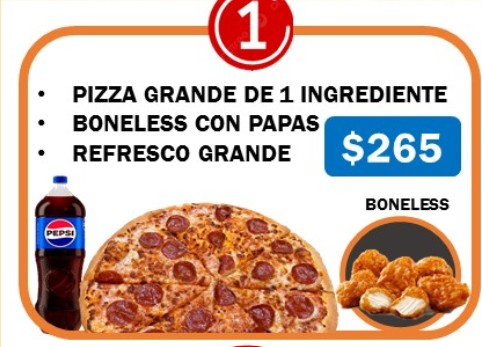
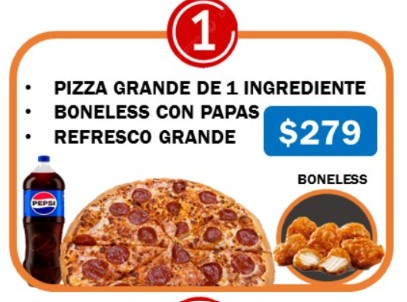
Add files via upload

diff --git a/script.js b/script.js
@@ -1,7 +1,7 @@
 // Datos de Pizzas, Paquetes y Complementos
 
 // Versión de las imágenes - Cambia este número cuando subas nuevas imágenes para forzar la recarga
-const IMAGE_VERSION = "v2.1";
+const IMAGE_VERSION = "v2.2";
 
 // Función para agregar versión a las URLs de imágenes y evitar caché
 function getImageUrl(imgPath) {
@@ -28,7 +28,14 @@ const ingredientes = [
 ];
 
 const ingredientesExtra = {};
-  
+
+// Especialidades: si en "Crea tu pizza" eliges exactamente estos ingredientes, se aplica el precio fijo
+const especialidadesPizza = [
+    { name: 'Hawaiana', ingredientes: ['Jamón', 'Piña'].sort(), price: 159 },
+    { name: '3 Carnes', ingredientes: ['Jamón', 'Pepperoni', 'Salchicha Italiana'].sort(), price: 179 },
+    { name: 'Ala mexicana', ingredientes: ['Cebolla', 'Chorizo', 'Pimiento Morron'].sort(), price: 179 },
+    { name: 'Suprema', ingredientes: ['Cebolla', 'Champiñones', 'Jamón', 'Pepperoni', 'Pimiento Morron', 'Salchicha Italiana'].sort(), price: 199 }
+];
 
 const opcionesAdicionales = {
     orillaRellena: false, // Orilla rellena de queso
@@ -51,7 +58,7 @@ const pizzas = [
 
     { id: "pizza-peperoniExtra", type: "pizza", id: "mitamita", name: "1/2 Peperoni 1/2 Queso ", img: "imgs/pizzamitamita.jpeg", price: 119 },
 
-    { id: "pizza-suprema", type: "pizza", id: "suprema", name: "Pizza Suprema", img: "imgs/suprema.jpg", price: 189 },
+    { id: "pizza-suprema", type: "pizza", id: "suprema", name: "Pizza Suprema", img: "imgs/suprema.jpg", price: 199 },
     
     { id: "pizza-hawaiana", type: "pizza", id: "hawaiana", name: "Pizza Hawaiana", img: "imgs/hawaiana.jpg", price: 159 },
     
@@ -63,7 +70,7 @@ const pizzas = [
     
     { id: "pizza-boneless", type: "pizza", id: "pizzaBoneless", name: "Pizza de Boneless con Aderezo", img: "imgs/pizzaBoneless.jpg", price: 189 },
     
-    { id: "pizza-mexicana", type: "pizza", id: "mexicana", name: "Pizza A la Mexicana", img: "imgs/mexicana.jpg", price: 189 },
+    { id: "pizza-mexicana", type: "pizza", id: "mexicana", name: "Pizza A la Mexicana", img: "imgs/mexicana.jpg", price: 179 },
     
     { id: "pizza-cheetos", type: "pizza", id: "cheetos", name: "Pizza de Cheetos Flamin Hot", img: "imgs/cheetos.jpg", price: 179 },
     
@@ -76,7 +83,7 @@ const paquetes = [
         name: "Paquete 1",
         id: "paquete-1", 
         img: "imgs/Paquete1.jpg", 
-        price: 265, 
+        price: 279, 
         products: [
             { type: "pizza", name: "Pizza de Peperoni", options: { ingredients: ingredientes } },
             { type: "bonealitas", name: "Boneless", options: { sauces: ["BBQ", "Buffalo", "Mango Habanero", "Parmesano", "Lemon Pepper"], type: ["Bañados", "Naturales"] } },
@@ -88,7 +95,7 @@ const paquetes = [
         name: "Paquete 2",
         id: "paquete-2", 
         img: "imgs/Paquete2.jpg", 
-        price: 195, 
+        price: 199, 
         products: [
             { type: "pizza", name: "Pizza de Peperoni", options: { ingredients: ingredientes } },
             { type: "complementos", name: "Espagueti Sencillo" },
@@ -100,7 +107,7 @@ const paquetes = [
         name: "Paquete 3",
         id: "paquete-3", 
         img: "imgs/Paquete3.jpg", 
-        price: 225, 
+        price: 229, 
         products: [
             { type: "pizza", name: "Pizza De Boneless (Bañados o Naturales)", options: { sauces: ["BBQ", "Buffalo", "Mango Habanero", "Parmesano", "Lemon Pepper"], type: ["Bañados", "Naturales"] } },
             { type: "complemento", name: "Aderezo A Elegir", options: { sauces: ["Ranch", "Jalapeño", "Chipotle", "BBQ", "Buffalo", "Mango Habanero", "Parmesano", "Lemon Pepper"] } },
@@ -113,7 +120,7 @@ const paquetes = [
         name: "Paquete 4", 
         id: "paquete-4",
         img: "imgs/Paquete4.jpg", 
-        price: 315, 
+        price: 329, 
         products: [
             { type: "pizza", name: "2 Pizzas de Peperoni con Extra Queso", options: { ingredients: ingredientes, multiple: true } },
             { type: "bebida", name: "Refresco Grande 1.75L" }
@@ -124,7 +131,7 @@ const paquetes = [
         name: "Paquete 5", 
         id: "paquete-5",
         img: "imgs/Paquete5.jpg", 
-        price: 315, 
+        price: 329, 
         products: [
             { type: "pizza", name: "Pizza Grande de 1 Ingrediente", options: { ingredients: ingredientes } },
             { type: "bonealitas", name: "Boneless con Papas", options: { sauces: ["BBQ", "Buffalo", "Mango Habanero", "Parmesano", "Lemon Pepper"], type: ["Bañados", "Naturales"] } },
@@ -137,8 +144,8 @@ const paquetes = [
 const bonealitas = [
     { id: "bonealitas-boneless", type: "bonealitas", name: "Boneless", img: "imgs/boneless.jpg", price: 139, options: { sauces: ["BBQ", "Buffalo", "Mango Habanero", "Parmesano", "Lemon Pepper"], type: ["Bañados", "Naturales"] } },
     { id: "bonealitas-alitas", type: "bonealitas", name: "Alitas", img: "imgs/alitas.jpg", price: 139, options: { sauces: ["BBQ", "Buffalo", "Mango Habanero", "Parmesano", "Lemon Pepper"], type: ["Bañados", "Naturales"] } },
-    { id: "bonealitas-1kg-boneless", type: "bonealitas", name: "1Kg de Boneless (No incluye papas)", img: "imgs/kiloBoneless.jpg", price: 279, options: { sauces: ["BBQ", "Buffalo", "Mango Habanero", "Parmesano", "Lemon Pepper"], type: ["Bañados", "Naturales"] } },
-    { id: "bonealitas-1kg-alitas", type: "bonealitas", name: "1Kg de Alitas  (No incluye papas)", img: "imgs/alitas.jpg", price: 279, options: { sauces: ["BBQ", "Buffalo", "Mango Habanero", "Parmesano", "Lemon Pepper"], type: ["Bañados", "Naturales"] } }
+    { id: "bonealitas-1kg-boneless", type: "bonealitas", name: "1Kg de Boneless (No incluye papas)", img: "imgs/kiloBoneless.jpg", price: 289, options: { sauces: ["BBQ", "Buffalo", "Mango Habanero", "Parmesano", "Lemon Pepper"], type: ["Bañados", "Naturales"] } },
+    { id: "bonealitas-1kg-alitas", type: "bonealitas", name: "1Kg de Alitas  (No incluye papas)", img: "imgs/alitas.jpg", price: 289, options: { sauces: ["BBQ", "Buffalo", "Mango Habanero", "Parmesano", "Lemon Pepper"], type: ["Bañados", "Naturales"] } }
 ];
 
 const complementos = [
@@ -1133,7 +1140,15 @@ function calcularPrecioPizza(ingredientesSeleccionados, orillaRellena = false, i
     }
 
     // Lógica para pizza grande (por defecto)
-    if (ingredientesSeleccionados.length === 0) {
+    // Especialidad solo aplica sin orilla rellena ni queso extra; si agregan eso, se cobra por ingredientes normal + extras
+    const sortedIng = [...ingredientesSeleccionados].sort();
+    const especialidadMatch = !orillaRellena && !quesoExtra && especialidadesPizza.find(esp =>
+        esp.ingredientes.length === sortedIng.length &&
+        esp.ingredientes.every((ing, i) => ing === sortedIng[i])
+    );
+    if (especialidadMatch) {
+        precioBase = especialidadMatch.price;
+    } else if (ingredientesSeleccionados.length === 0) {
         precioBase = 0;
     } else if (ingredientesSeleccionados.length === 1) {
         // Si tiene doble queso, se cancela la promo y se cobra como 1 ingrediente
@@ -1163,32 +1178,18 @@ function calcularPrecioPizza(ingredientesSeleccionados, orillaRellena = false, i
     } else if (ingredientesSeleccionados.length === 2) {
         precioBase = 159;
     } else if (ingredientesSeleccionados.length === 3) {
-        precioBase = 169;
+        precioBase = 179;
     } else if (ingredientesSeleccionados.length >= 4) {
         const ingredientesExtra = ingredientesSeleccionados.length - 3;
-        precioBase = 169 + (ingredientesExtra * 10);
+        precioBase = 179 + (ingredientesExtra * 10); // 3 ing = $179, del 4to en adelante +$10 c/u
     }
 
-    // Si tiene orilla rellena
+    // Si tiene orilla rellena: siempre +$40 (igual que queso extra)
     if (orillaRellena) {
-        // Si era promo de 1 ingrediente, se cancela la promo y se cobra como pizza normal de 1 ingrediente
         if (esPromo && ingredientesSeleccionados.length === 1) {
-            precioBase = 129; // Precio base de 1 ingrediente
-            precioBase += 40; // Agregar $40 de orilla
-        } 
-        // Si son 2 o 3 ingredientes con orilla, ambos son $199
-        else if (ingredientesSeleccionados.length === 2 || ingredientesSeleccionados.length === 3) {
-            precioBase = 199; // 2 o 3 ingredientes con orilla = $199
+            precioBase = 129; // Se cancela la promo, se cobra como 1 ingrediente
         }
-        // Si son 4+ ingredientes con orilla, es $199 + $10 por cada ingrediente extra
-        else if (ingredientesSeleccionados.length >= 4) {
-            const ingredientesExtra = ingredientesSeleccionados.length - 3;
-            precioBase = 199 + (ingredientesExtra * 10);
-        }
-        // Para 1 ingrediente que no es promo, solo agregar $40
-        else if (ingredientesSeleccionados.length === 1) {
-            precioBase += 40;
-        }
+        precioBase += 40;
     }
 
     return precioBase;
